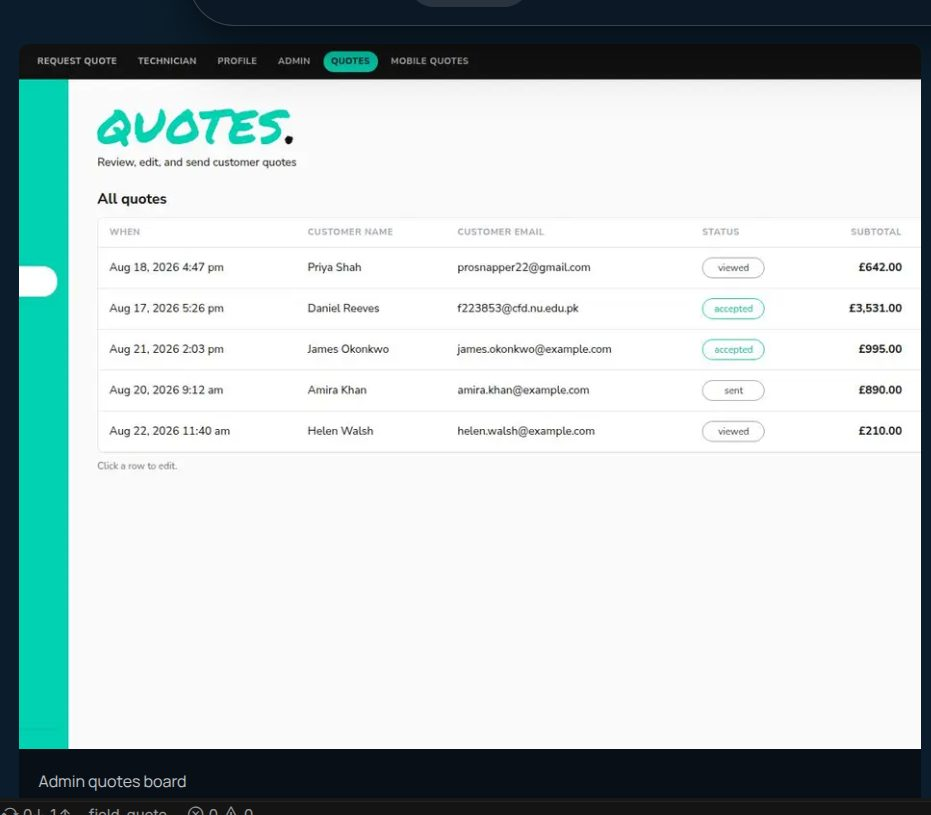
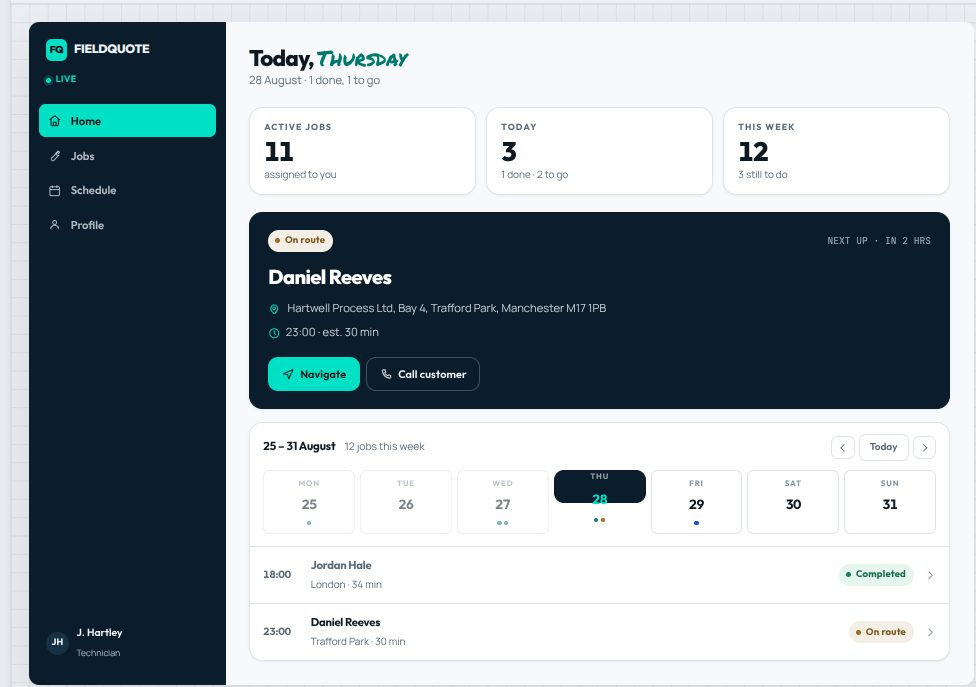
Replace the landing quotes-board shot with technician home.
The primary product image is now the Next Up / week-strip board from the attached capture.

diff --git a/landing/src/components/Gallery.tsx b/landing/src/components/Gallery.tsx
@@ -28,8 +28,8 @@ export default function Gallery() {
             </h2>
           </div>
           <p className="section-intro">
-            These are FieldQuote screens from the working app: the request inbox,
-            the quote the admin opens, and the technician job list that closes
+            These are FieldQuote screens from the working app: the technician home
+            board, the quote the admin opens, and the job list that closes
             the visit with notes and a photo.
           </p>
         </motion.div>
@@ -41,12 +41,12 @@ export default function Gallery() {
           >
             <Image
               src="/images/product/admin-quotes.jpg"
-              alt="FieldQuote admin quotes board with customer rows, status pills, and subtotals"
+              alt="FieldQuote technician home: next job card, day stats, and the week strip"
               fill
               sizes="(max-width: 700px) 100vw, 58vw"
               quality={82}
             />
-            <figcaption>Admin quotes board</figcaption>
+            <figcaption>Technician home</figcaption>
           </motion.figure>
 
           <motion.figure className="proof-image" {...fadeUp(reducedMotion, 0.14)}>
